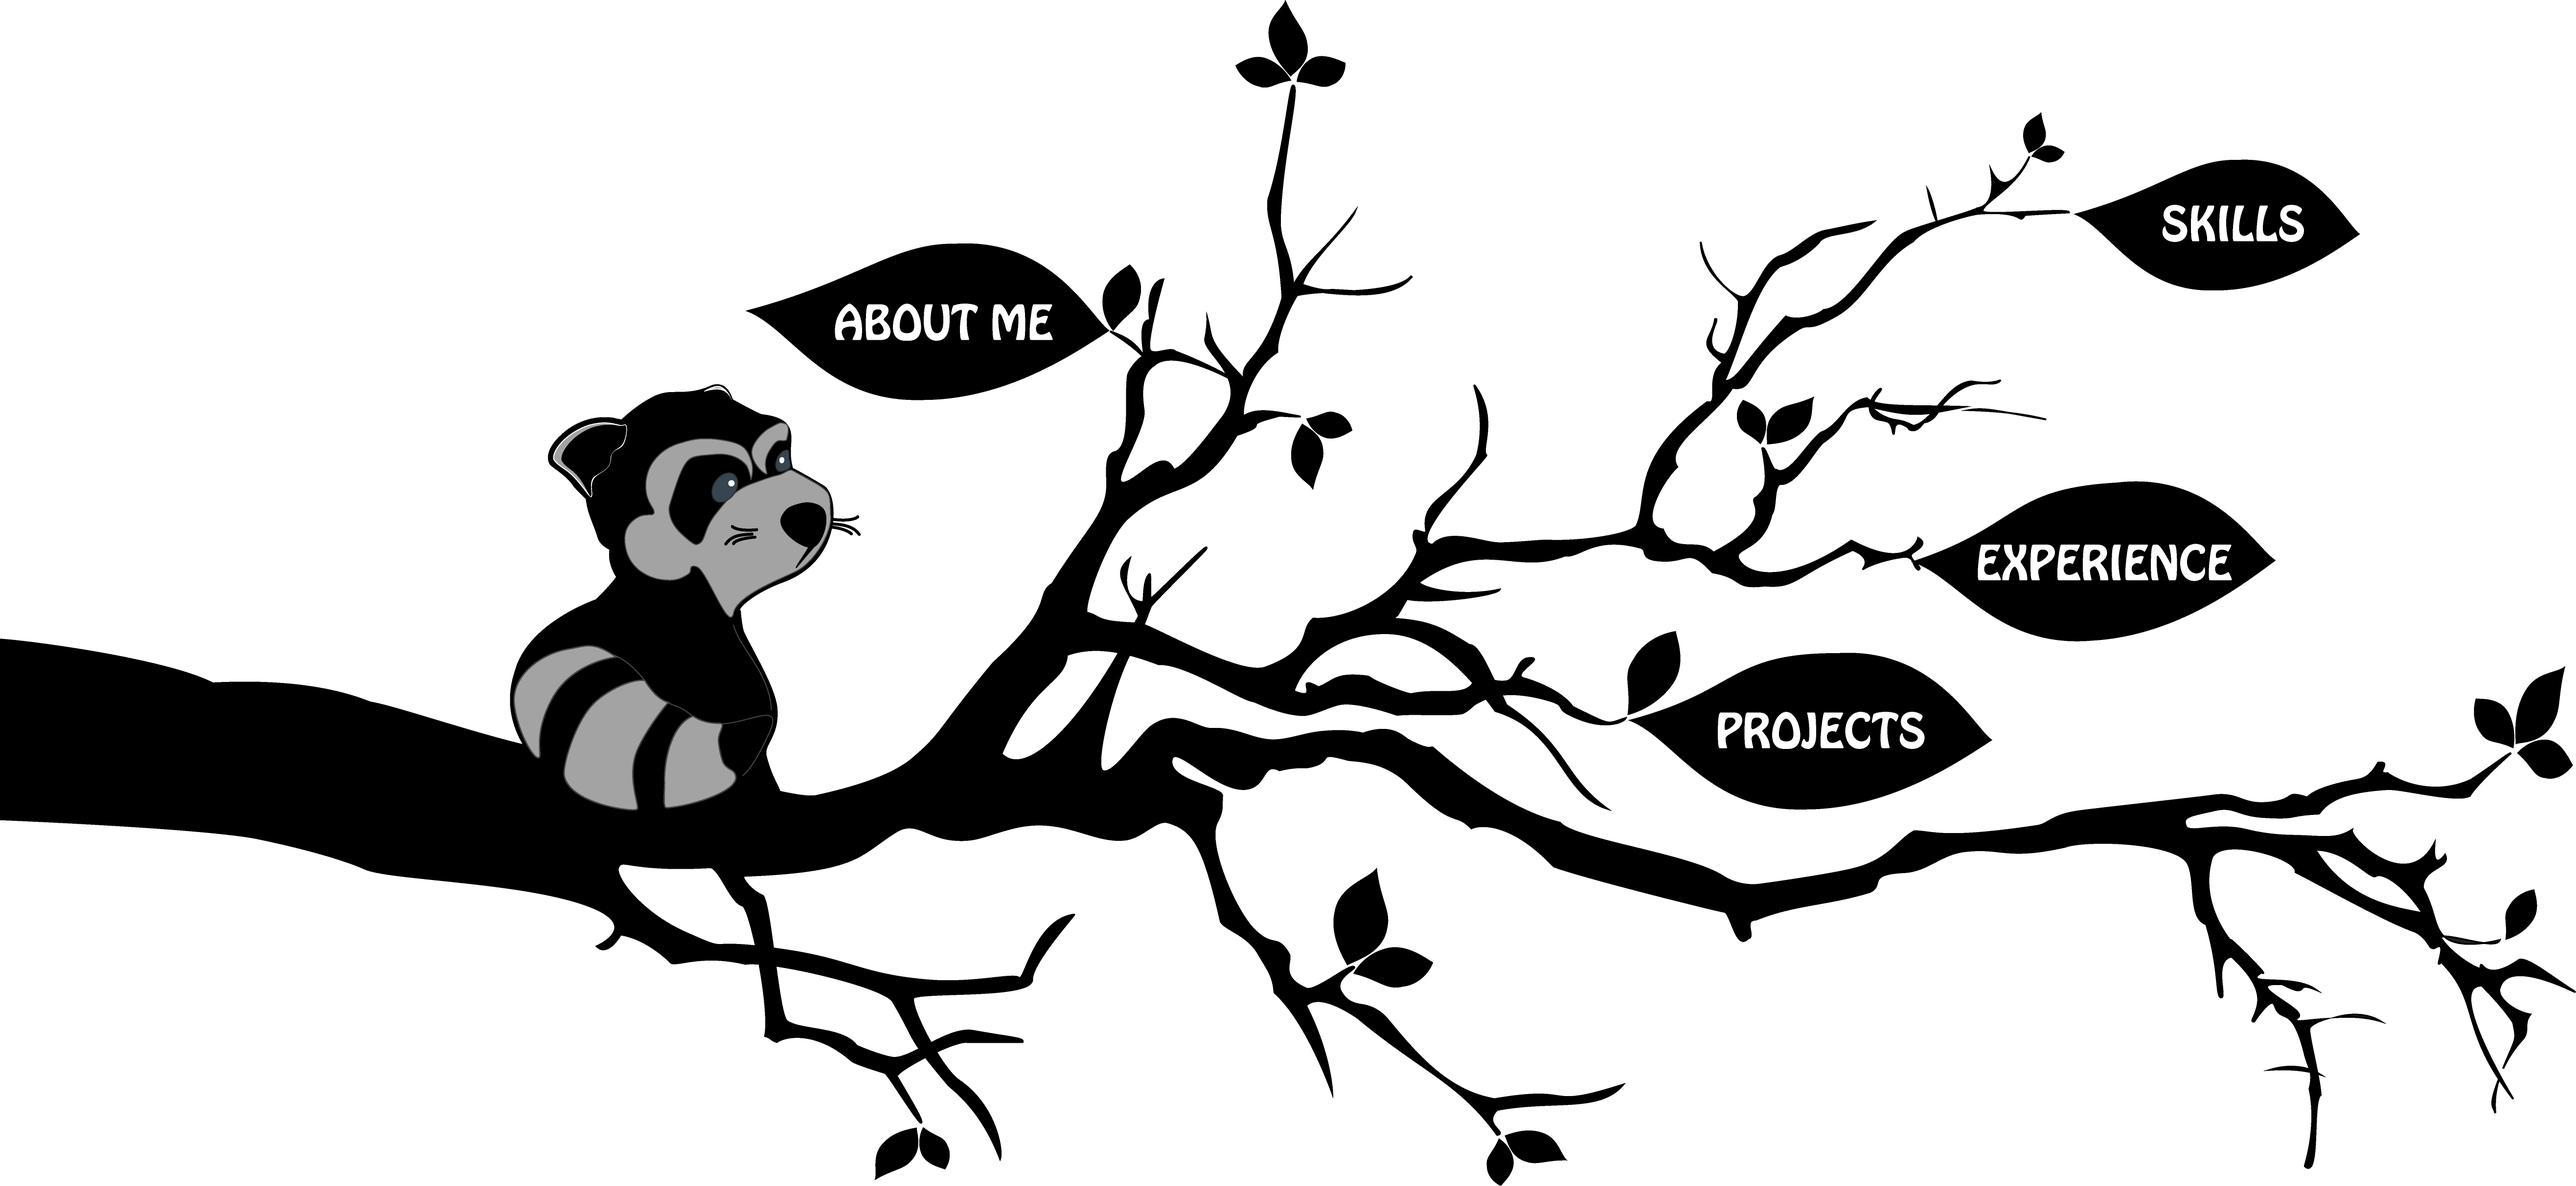
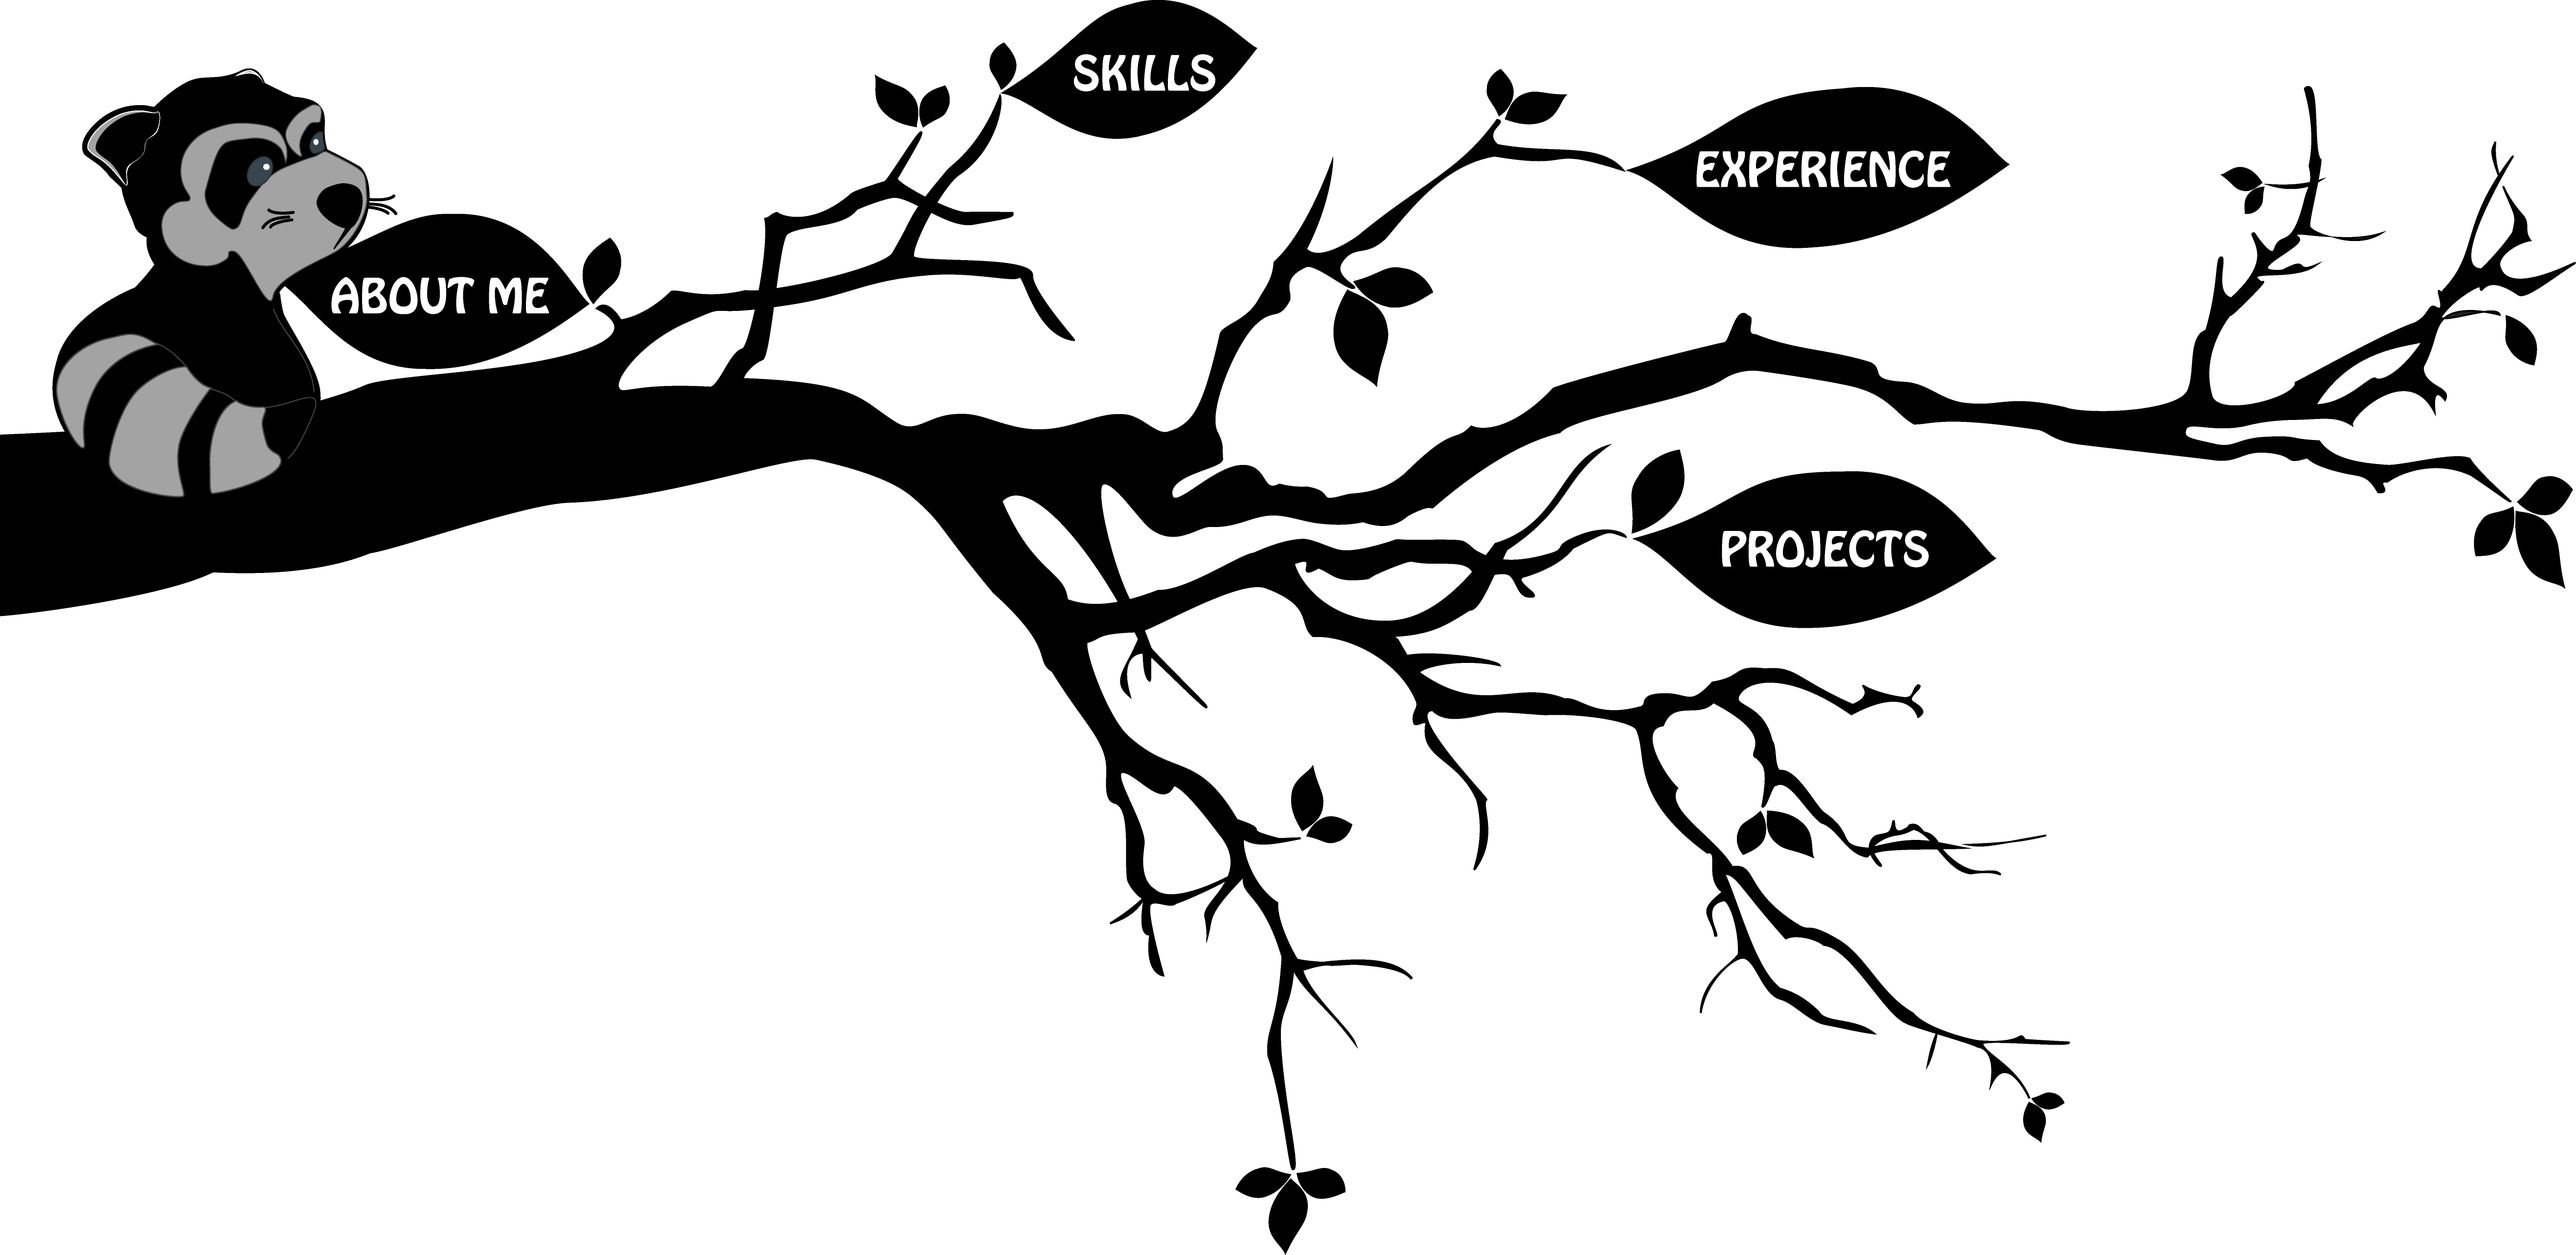
Content Edits

diff --git a/index.html b/index.html
@@ -12,20 +12,32 @@
     <header>
         <div class="container-header">
             <h1>Sara Lee</h1>
-            <h3>Cha Yeon | 자연</h3>
+            <h4>Cha Yeon | 자연</h4>
             <!-- <h2>Self Taught Web Designer/Front-End Developer</h2> -->
         </div>
     </header>
+    <nav>
+        <img src=TreeNavg.png alt="navbar" usemap="#TreeNav">
+        <map id="TreeNav" name="TreeNav">
+            <area shape ="poly" coords="" href="#AboutMe">
+            <area shape ="poly" coords="" href="#Skills">
+            <area shape ="poly" coords="" href="#Experiences">
+            <area shape ="poly" coords="" href="#Projects">
+        </map>
+    </nav>
     <main>
         <div class="container-top">
             <div id="AboutMe" class="container-about">
-                <div class="about-heading">
+                <div class="content-heading">
                     <h4>About me</h4>
                 </div>
                 <div class="about-content">
                     <div class="about-txt">
                     <p>I&#39;m a bit of a modern day nomad &#8208; enjoy travelling and not afraid to move onto new things taking on new challenges, going above and beyond from what it is to be expected. I have lived in 4 different countries thus far &#91;Dominican Republic, USA, Australia and Korea&#93; and speak 3 different languages fluently, although my brain tends to mix them up from time to time. 😅</p>
-                    <p>Very hands&#8208;on and love animals and nature! Most of my work is inspired by one or the other &#126; or both! I&#39;ve had a creative streak my entire life and I&#39;ve slowly moved onto incorporating it onto the technological world. I like to make things from scratch (like this website!), kinda gives me a better sense of accomplishment, making me feel warm and fuzzy inside. 🤗<br> Currently focused on Front-end Development with HTML, CSS and Javascript, but have plans to move onto programming languages such as Python and Java. </p>
+                    <br>
+                    <p>Very hands&#8208;on and love animals and nature! Most of my work is inspired by one or the other &#126; or both! I&#39;ve had a creative streak my entire life and I&#39;ve slowly moved onto incorporating it onto the technological world. I like to make things from scratch (like this website!), kinda gives me a better sense of accomplishment, making me feel warm and fuzzy inside. 🤗</p>
+                    <p>Currently focused on Front-end Development with HTML, CSS and Javascript, but have plans to move onto programming languages such as Python and Java. </p>
+                    <br>
                     <p>I have a Bachelors in Animal and Veterinary Bioscience from the University of Sydney and currently work as an Animal Health Technologist, but have worked in several different industries.</p>
                 </div>
                 <div class="about-img">
@@ -33,82 +45,71 @@
                 </div>
                 </div>
             </div>
-            <div id="Skills" class="container-about">
-                <div class="about-heading">
+            <!-- <div id="Skills" class="container-about">
+                <div class="content-heading">
                     <h4>Skills</h4>
                 </div>
                 <div class="about-content">
                 <div class="about-txt">
                     <div class="column">
                     <h2>Languages</h2>
+                    <br>
                     <ul>
                         <li>English</li>
                         <li>Spanish</li>
                         <li>Korean</li>
                     </ul>
+                    <br>
                     <h2>Coding/Software</h2>
+                    <br>
                     <ul>
                         <li>HTML/CSS</li>
                         <li>Javascript</li>
                         <li>Adobe Illustrator</li>
                         <li>Microsoft Office: Word, Excel, PPT</li>                        
                     </ul>
+                    <br>
                     </div>
                     <div class="column">
                     <h2>Interpersonal Skills</h2>
+                    <br>
                     <ul>
                         <li>Problem Solving</li>
                         <li>Critical Thinking</li>
                         <li>Decision Making</li>
                         <li>Team Work</li>                        
                     </ul>
+                    <br>
                     </div>
                     <div class="clr"></div>
                 </div>
                 </div>
+                </div> -->
+        </div>
+        <div class="container-midt">
+            <div id="Experiences" class="container-exp">
+                <div class="content-heading">
+                    <h4>Experiences</h4>
                 </div>
-        </div>
-        <!-- <div id="AboutMe" class="container-about">
-            <div class="about-txt">
-            <h4>About me</h4>
-            <p>I&#39;m a bit of a modern day nomad &#8208; enjoy travelling and not afraid to move onto new things taking on new challenges,
-                going above and beyond from what it is to be expected. I have lived in 4 different countries thus far &#91;Dominican Republic,
-                USA, Australia and Korea&#93; and speak 3 different languages fluently, although my brain tends to mix them up from time to 
-                time. 😅</p>
-            <p>Very hands&#8208;on and love animals and nature! Most of my work is inspired by one or the other &#126; or both! I&#39;ve had 
-                a creative streak my entire life and I&#39;ve slowly moved onto incorporating it onto the technological world. I like to make things 
-                from scratch (like this website!), kinda gives me a better sense of accomplishment, making me feel warm and fuzzy inside. 🤗<br>
-                Currently focused on Front-end Development with HTML, CSS and Javascript, but have plans to move onto programming languages such 
-                as Python and Java. </p>
-            <p>I have a Bachelors in Animal and Veterinary Bioscience from the University of Sydney and currently work as an Animal Health 
-                Technologist, but have worked in several different industries.</p>
-            </div>
-            <div class="about-img">
-                <img src="meTree.jpg" alt="Sara"></img>
+                <div class="exp-content">
+                    <div class="exp-txt">
+                    <p>Lorem ipsum, dolor sit amet consectetur adipisicing elit. Corporis, enim perspiciatis. Assumenda laudantium excepturi, dicta optio earum, ex saepe aliquam, provident minus et mollitia iste. Laudantium repellendus reprehenderit aspernatur repudiandae. Lorem ipsum dolor sit amet consectetur adipisicing elit. Et ipsa ex alias harum possimus voluptas numquam, est quo ab laboriosam ipsum quisquam laborum illo quos nostrum ea quia exercitationem. A. Lorem ipsum dolor sit amet consectetur, adipisicing elit. Itaque, harum suscipit. Aperiam dicta tempore voluptate, eaque, repellat saepe nulla autem itaque similique aliquid ad nihil quod! Saepe ea molestiae recusandae. Lorem ipsum dolor, sit amet consectetur adipisicing elit. Repudiandae officiis numquam maxime eius deserunt, qui ea, aut labore harum assumenda omnis, sapiente excepturi sed dolorum rerum commodi eos pariatur ratione.</p>
+                    </div>
+                </div>
             </div>
         </div>
-        <div id="AboutMe" class="container-about">
-            <div class="about-txt">
-            <h4>About me</h4>
-            <p>I&#39;m a bit of a modern day nomad &#8208; enjoy travelling and not afraid to move onto new things taking on new challenges,
-                going above and beyond from what it is to be expected. I have lived in 4 different countries thus far &#91;Dominican Republic,
-                USA, Australia and Korea&#93; and speak 3 different languages fluently, although my brain tends to mix them up from time to 
-                time. 😅</p>
-            <p>Very hands&#8208;on and love animals and nature! Most of my work is inspired by one or the other &#126; or both! I&#39;ve had 
-                a creative streak my entire life and I&#39;ve slowly moved onto incorporating it onto the technological world. I like to make things 
-                from scratch (like this website!), kinda gives me a better sense of accomplishment, making me feel warm and fuzzy inside. 🤗<br>
-                Currently focused on Front-end Development with HTML, CSS and Javascript, but have plans to move onto programming languages such 
-                as Python and Java. </p>
-            <p>I have a Bachelors in Animal and Veterinary Bioscience from the University of Sydney and currently work as an Animal Health 
-                Technologist, but have worked in several different industries.</p>
+        <div class="container-midb">
+            <div id="Projects" class="container-prj">
+                <div class="content-heading">
+                    <h4>Projects</h4>
+                </div>
+                <div class="prj-content">
+                    <div class="prj-txt">
+                    <p>Lorem ipsum, dolor sit amet consectetur adipisicing elit. Corporis, enim perspiciatis. Assumenda laudantium excepturi, dicta optio earum, ex saepe aliquam, provident minus et mollitia iste. Laudantium repellendus reprehenderit aspernatur repudiandae. Lorem ipsum dolor sit amet consectetur adipisicing elit. Et ipsa ex alias harum possimus voluptas numquam, est quo ab laboriosam ipsum quisquam laborum illo quos nostrum ea quia exercitationem. A. Lorem ipsum dolor sit amet consectetur, adipisicing elit. Itaque, harum suscipit. Aperiam dicta tempore voluptate, eaque, repellat saepe nulla autem itaque similique aliquid ad nihil quod! Saepe ea molestiae recusandae. Lorem ipsum dolor, sit amet consectetur adipisicing elit. Repudiandae officiis numquam maxime eius deserunt, qui ea, aut labore harum assumenda omnis, sapiente excepturi sed dolorum rerum commodi eos pariatur ratione.</p>
+                    </div>
+                </div>
             </div>
-            <div class="about-img">
-                <img src="meTree.jpg" alt="Sara"></img>
-            </div>
-        </div> -->
+        </div>
     </main>
-    <nav>
-        <img src=TreeNav.png alt="navbar">
-    </nav>
 </body>
 </html>

diff --git a/style.css b/style.css
@@ -1,35 +1,48 @@
+/* Font */
+@import url(//db.onlinewebfonts.com/c/de2667f342f093d9526e2b71283629b2?family=Hobo+Std);
+
 *{
     margin: 0;
     padding:0;
+    box-sizing: border-box;
+    font-family: hobo-std, sans-serif;
+    font-weight: 600;
+    color: #444482;
 }
 body{
-    background-image: url(Pelicans.JPG);
-    background-repeat: no-repeat;
-    background-size: 100%;
+    background: url(Pelicans.JPG) no-repeat center center fixed;
+     -webkit-background-size: cover;
+     -moz-background-size: cover;
+     -o-background-size: cover;
+    background-size: cover;
+}
+main{
+    margin-bottom: 200px;
 }
 .container-header{
     width: 100%;
     margin: auto;
     font-size: 3em;
     text-align: center;
-    padding: 30px;
+    padding: 90px 30px 30px 30px;
 }
 .container-top{
     margin:auto;
-    width:70%;
+    width:80%;
     display: flex;
     justify-content: space-around;
 }
 .container-about{
-    margin: 20px;
-    border: 2px dotted #5e6c75;
+    margin: 30px;
+    border: 3px inset #5e6c7580;
+    border-radius: 5px;
     background-color: #dcded585;
 }
-.about-heading{
+.content-heading{
     text-align: center;
     font-size: 3em;
     width: 100%;
-    margin-top: 10px;
+    margin-top: 25px;
 }
 .about-content{
     margin: 10px;
@@ -38,19 +51,51 @@ body{
     justify-content: space-around;
 }
 .about-txt{
-    padding: 10px;
+    padding-right: 20px;
 }
-p{
+/* p{
     font-size: 1em;
-}
+} */
 .about-img img{
     display: flex;
     justify-content: space-around;
-    width: 200px;
+    width: 250px;
 }
 .column{
-    float: right;
+    display: flex;
+    flex-flow: column;
 }
 .clr{
     clear: both;
 }
+.container-midt{
+    margin:auto;
+    width:80%;
+}
+.container-exp{
+    margin: 30px;
+    border: 4px inset #5e6c7580;
+    border-radius: 10px;
+    background-color: #dcded585;
+}
+.exp-content{
+    margin: 10px;
+    padding: 10px;
+}
+.container-midb{
+    margin:auto;
+    width:80%;
+}
+.container-prj{
+    margin: 30px;
+    border: 4px inset #5e6c7580;
+    border-radius: 10px;
+    background-color: #dcded585;
+}
+.prj-content{
+    margin: 10px;
+    padding: 10px;
+}
+
+/* For smaller screen */
+@media only screen and (max-width: 768px)

diff --git a/nav.css b/nav.css
@@ -2,9 +2,18 @@ nav{
     position: fixed;
     z-index: 1;
     overflow: hidden;
-    bottom:-250px;
+    bottom:-400px;
 }
 nav  img{
     width:100%;
     opacity: 0.8;
+}
+
+/* For smaller screen */
+@media only screen and (max-width: 768px)
+nav{
+    position: fixed;
+    z-index: 1;
+    overflow: hidden;
+    bottom:-100px;
 }
